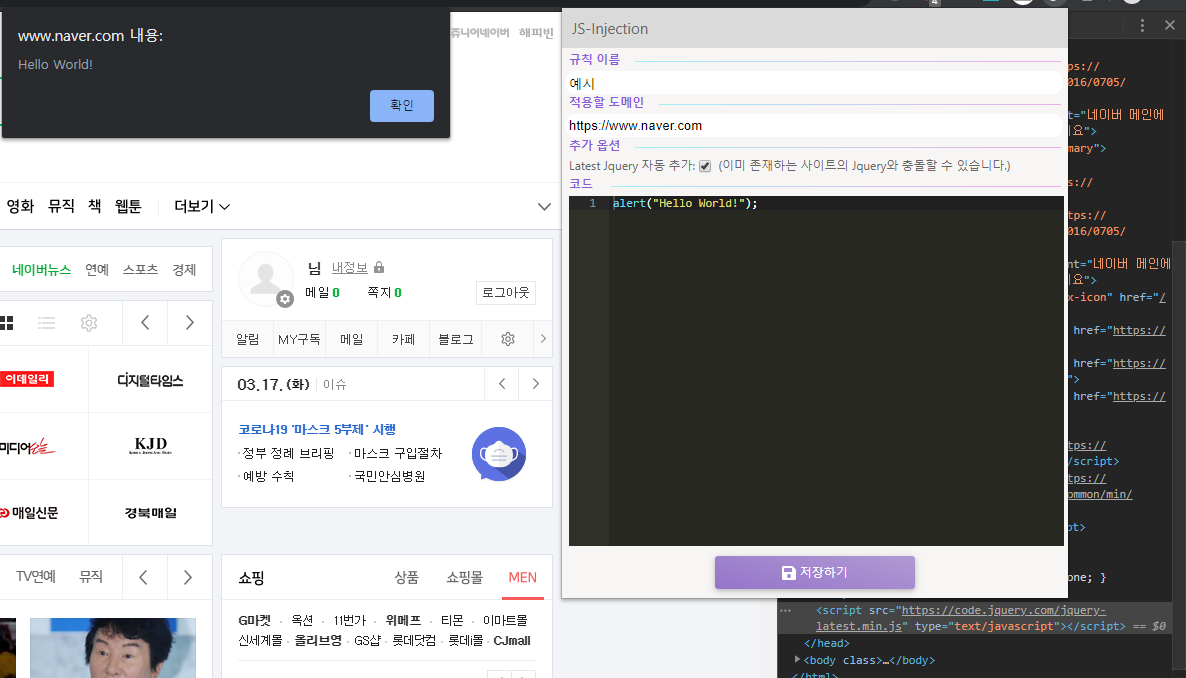
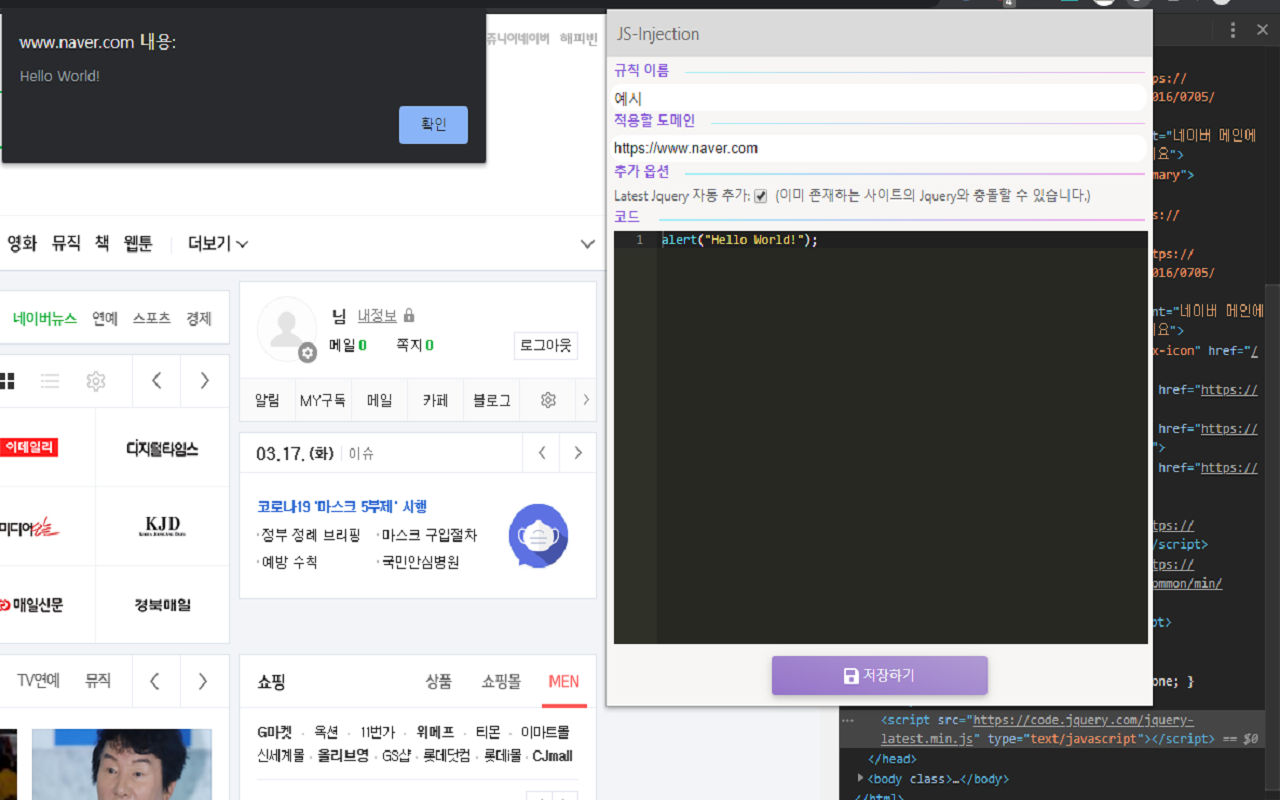
Fix Backup  Error

diff --git a/src/container/main/MainContainer.js b/src/container/main/MainContainer.js
@@ -49,6 +49,7 @@ class MainContainer extends Component {
 
   Upload(e) {
     let fileReader = new FileReader();
+    console.log(fileReader.readyState);
     fileReader.onload = () => {
       if (this.Validation(fileReader.result)) {
         let result = JSON.parse(fileReader.result);
@@ -59,6 +60,9 @@ class MainContainer extends Component {
 
               this.Save(key, nickname, url, code, jquery);
             }
+            this.setState({
+              err: ""
+            });
           });
         });
       } else {
@@ -127,7 +131,10 @@ class MainContainer extends Component {
 
         <div className="big big-btn">
           <a
-            href={"data:text/json," + JSON.stringify(this.props.storageList)}
+            href={
+              "data:text/json," +
+              encodeURIComponent(JSON.stringify(this.props.storageList))
+            }
             className="btn"
             download="backup.json"
           >

diff --git a/src/container/editor/EditorContainer.js b/src/container/editor/EditorContainer.js
@@ -102,7 +102,7 @@ class EditorContainer extends Component {
         <div className="option">
           <div className="block-name">추가 옵션</div>
           <label className="options">
-            Latest Jquery 자동 추가:
+            Latest jQuery 자동 추가:
             <input
               type="checkbox"
               checked={this.state.jquery}
